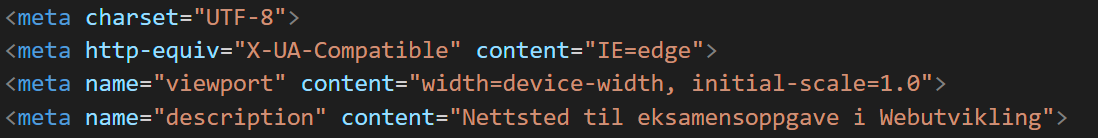
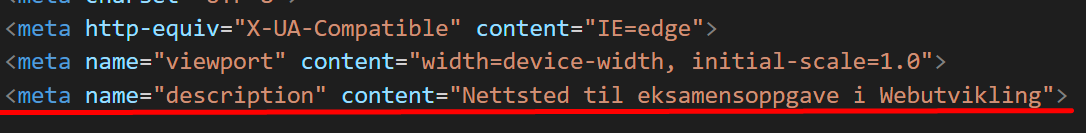
hh

Changed region(s): [[0.0, 0.0602, 1.0, 0.9624], [0.0, 0.0, 0.2735, 0.0301]]

diff --git a/deleksamner/deleksamen4/nettside-de4/analyse.html b/deleksamner/deleksamen4/nettside-de4/analyse.html
@@ -64,6 +64,67 @@
                     Da jeg skulle sette i gang med å vurdere tenkte jeg på prinsippet om “mobile-first”.
                     Jeg så for meg at flere av endringene jeg komme til å ende opp med å gjøre ville forbedre både nettstedet for mobile og deskop brukere. 
                 </p>
+                <h3>Lighthouse</h3>
+                <p>
+                    Jeg kjørte gjennom alle sidene og fant ut at alle sidene hadde like feil som kunne endres. Her er resultatet av endringene jeg gjorde.
+                    <br>
+                    <br>
+                    <img src="img/analyse-sc/test1.png">
+                    <br>
+                    <img src="img/analyse-sc/test.png">
+                </p>
+                <h3>Heuristisk evaluering</h3>
+                <p>
+                    1. Visibility of system status
+                    <br>
+                    Jeg har skrevet hvilken nettside brukeren er på i headeren på alle nettsidene.
+                    <br>
+                    <br>
+                    2. Match between system and the real world
+                    <br>
+                    Jeg har brukt ord, fraser og konsepter som er kjent hos brukeren i artiklene.
+                    <br>
+                    <br>
+                    3. User control and freedom
+                    <br>
+                    Jeg har navigasjon i toppen av alle sidene som gir brukeren muligheten til å raskt komme seg frem og tilbake.
+                    <br>
+                    <br>
+                    4. Consistency and standards
+                    <br>
+                    Jeg har brukt standarder og like ord for at brukeren skal kunne kjenne igjen betydningen.
+                    <br>
+                    <br>
+                    5. Error prevention
+                    <br>
+                    På kontakt oss siden har en “send inn” knapp som må trykkes for å sende inn.
+                    <br>
+                    <br>
+                    6. Recognition rather than recall
+                    <br>
+                    Alle sidene ser relativt like ut og bruker mye av det samme systemene og layoutene.
+                    <br>
+                    <br>
+                    7. Flexibility and efficiency of use
+                    <br>
+                    Jeg har både navigasjon on artikel kort for rask bytting av sider.
+                    <br>
+                    <br>
+                    8. Aesthetic and minimalist design
+                    <br>
+                    Jeg har kun informasjon på sidene som er relevant for sidens tema og et relativt minimalistisk design.
+                    <br>
+                    <br>
+                    9. Help users recognize, diagnose, and recover from errors
+                    <br>
+                    Jeg har ikke funnet noen områder hvor error meldinger kunne vært i bruk.
+                    <br>
+                    <br>
+                    10. Help and documentation
+                    <br>
+                    Det er enkelt å finne innholdet på alle sidene.
+                </p>
+                <h3>Tabell med endringer</h3>
                 <div id="analyse-table">
                     <div class="box1">Background and foreground colors do not have a sufficient contrast ratio</div>
                     <div class="box2">Før</div>
@@ -114,6 +175,7 @@
                     </div>
                     <div class="box24">Etter</div>
                     <div class="box25">
+                        <img src="img/analyse-sc/crawl link2.png">
                     </div>
 
                     <div class="box14-2">
@@ -126,13 +188,47 @@
                         <img src="img/analyse-sc/alt1.png">
                     </div>
                 </div>
+                <h3>Tilgjengelighetserklæring</h3>
+                <h4>A-krav</h4>
+                <h5>1.3.1 Informasjon og relasjoner (Nivå A)</h5>
+                <p>
+                    Ting skal være kodet som det ser ut som.
+                </p>
+                <h5>1.3.2 Meningsfylt rekkefølge (Nivå A)</h5>
+                <p>
+                    Presenter innhold i en meningsfull rekkefølge.
+                </p>
+                <h5>1.4.1 Bruk av farge (Nivå A)</h5>
+                <p>
+                    Ikke bruk presentasjon som bygger utelukkende på farge.
+                </p>
+                <h4>AA-krav</h4>
+                <h5>1.4.3 Kontrast (minimum, Nivå AA)</h5>
+                <p>
+                    Kontrastforholdet mellom teksten og bakgrunnen er minst 4,5:1.
+                </p>
+                <h5>3.2.3 Konsekvent navigering (Nivå AA)</h5>
+                <p>
+                    Navigasjonslinker som gjentas på flere sider skal ha en konsekvent rekkefølge.
+                </p>
+                <h5>3.2.4 Konsekvent identifikasjon (Nivå AA)</h5>
+                <p>
+                    Elementer som har samme funksjonalitet på tvers av flere sider er utformet likt.
+                </p>
+                <h4>AAA-krav</h4>
+                <h5>2.1.3 Keyboard (No Exception) Level AAA</h5>
+                <p>
+                    All functionality of the content is operable through a keyboard interface without requiring specific timings for individual keystrokes.
+                    <br>
+                    <a href="https://www.w3.org/WAI/WCAG21/quickref/?versions=2.0">Link til AAA-krav</a>
+                </p>
+                <p>
+                    <a href="ekstra/WCAGexcel_1.xlsx">Excel tabell med tilgjengelighetserklæringen</a>
+                </p>
                 <details>
                     <summary>Kilder</summary>
-                    <p><a href="#">Lorem ipsum</a></p>
-                    <p><a href="#">Lorem ipsum</a></p>
-                    <p><a href="#">Lorem ipsum</a></p>
-                    <p><a href="#">Lorem ipsum</a></p>
-                    <p><a href="#">Lorem ipsum</a></p>
+                    <p><a href="https://www.nngroup.com/articles/ten-usability-heuristics/">Heuristisk evaluering</a></p>
+                    <p><a href="https://www.uutilsynet.no/tilgjengelighetserklaering/wcag-sjekkliste-utfylling-av-tilgjengelighetserklaering/1333">WCAG-sjekkliste for utfylling av tilgjengelighetserklæring</a></p>
                 </details>
                 <div id="media-buttons">
                     <a href="https://www.facebook.com/sharer/sharer.php?u=https%3A%2F%2Fitstud.hiof.no%2F%7Eerikev%2Fdeleksamner%2Fnettside-de4%2Fanalyse.html&amp;src=sdkpreparse"

diff --git a/deleksamner/deleksamen4/nettside-de4/index.html b/deleksamner/deleksamen4/nettside-de4/index.html
@@ -4,6 +4,7 @@
     <meta charset="UTF-8">
     <meta http-equiv="X-UA-Compatible" content="IE=edge">
     <meta name="viewport" content="width=device-width, initial-scale=1.0">
+    <meta name="description" content="Nettsted til eksamensoppgave i Webutvikling">
 
     <!-- Twitter card -->
     <meta name="twitter:card" content="summary">
@@ -52,52 +53,15 @@
             <section id="main-section">
                 <h2>Lorem ipsum</h2>
                 <p>
-                    Lorem ipsum dolor sit amet, consectetur adipiscing elit, sed do eiusmod tempor incididunt ut labore et dolore magna aliqua.
-                    Aliquet lectus proin nibh nisl condimentum id. Ut eu sem integer vitae. Ac turpis egestas sed tempus urna et pharetra.
-                    Arcu cursus vitae congue mauris. Enim ut tellus elementum sagittis vitae et leo duis ut. Nisl pretium fusce id velit ut tortor pretium viverra.
-                    Tempus egestas sed sed risus pretium quam vulputate dignissim. Nibh mauris cursus mattis molestie a iaculis at erat.
-                    Senectus et netus et malesuada fames ac turpis egestas. Purus semper eget duis at tellus at urna.
-                    Sed risus pretium quam vulputate dignissim suspendisse in est. Ut diam quam nulla porttitor.
-                    Tellus in metus vulputate eu scelerisque felis imperdiet. Magna eget est lorem ipsum dolor sit.
-                    Etiam erat velit scelerisque in dictum non consectetur a.
+                    Dette nettstedet er en eksamensoppgave med artikler og en analyse av nettstedet.
                 </p>
-                <h3>Lorem ipsum</h3>
-                <p>
-                   Pellentesque elit eget gravida cum sociis. Eget gravida cum sociis natoque penatibus et. Aliquet bibendum enim facilisis gravida neque convallis a cras.
-                   Ut morbi tincidunt augue interdum. Mattis enim ut tellus elementum sagittis vitae et leo. Euismod elementum nisi quis eleifend quam adipiscing.
-                   Aliquam sem fringilla ut morbi tincidunt. In est ante in nibh mauris cursus mattis molestie a. Morbi non arcu risus quis varius quam quisque id.
-                   Risus pretium quam vulputate dignissim. Scelerisque mauris pellentesque pulvinar pellentesque. Faucibus purus in massa tempor.
-                   Metus aliquam eleifend mi in nulla. Quam id leo in vitae turpis massa sed. Varius vel pharetra vel turpis nunc eget lorem. Erat imperdiet sed euismod nisi.
-                </p>
-                <p>
-                   Quisque egestas diam in arcu cursus euismod quis viverra. Laoreet sit amet cursus sit amet dictum sit amet.
-                   Venenatis tellus in metus vulputate eu scelerisque. Eleifend donec pretium vulputate sapien nec. Consequat ac felis donec et.
-                   Aliquam etiam erat velit scelerisque. Neque ornare aenean euismod elementum nisi quis.
-                   Tristique risus nec feugiat in fermentum posuere urna nec tincidunt. Sed ullamcorper morbi tincidunt ornare massa eget egestas purus.
-                   Pharetra et ultrices neque ornare aenean. Ornare arcu odio ut sem nulla.
-                </p>
-                <p>
-                   Eu mi bibendum neque egestas congue quisque. Ullamcorper a lacus vestibulum sed arcu non odio. Tristique nulla aliquet enim tortor.
-                   Sed arcu non odio euismod lacinia at quis risus. Et tortor at risus viverra adipiscing. Nibh cras pulvinar mattis nunc sed blandit libero volutpat.
-                   Est pellentesque elit ullamcorper dignissim. Morbi blandit cursus risus at ultrices mi tempus imperdiet.
-                   Suspendisse faucibus interdum posuere lorem ipsum dolor sit amet. Bibendum enim facilisis gravida neque. Quam pellentesque nec nam aliquam sem et.
-                   Diam quam nulla porttitor massa id neque aliquam vestibulum morbi. Ac placerat vestibulum lectus mauris ultrices.
-                   Ultrices in iaculis nunc sed augue lacus viverra vitae congue. Nam at lectus urna duis. Euismod quis viverra nibh cras pulvinar mattis nunc.
-                   Egestas diam in arcu cursus euismod quis viverra nibh cras. Risus sed vulputate odio ut enim. At ultrices mi tempus imperdiet nulla malesuada.
-                </p>
-                <p>
-                   Ipsum a arcu cursus vitae congue mauris. Feugiat nibh sed pulvinar proin. Tincidunt ornare massa eget egestas purus viverra accumsan.
-                   Metus vulputate eu scelerisque felis imperdiet proin. Fermentum dui faucibus in ornare quam viverra orci.
-                   Massa eget egestas purus viverra accumsan in nisl nisi. Neque volutpat ac tincidunt vitae semper.
-                   Eget sit amet tellus cras adipiscing enim eu turpis egestas. Ornare quam viverra orci sagittis eu. Scelerisque eleifend donec pretium vulputate sapien.
-                   Tristique sollicitudin nibh sit amet commodo nulla. Convallis convallis tellus id interdum. Pulvinar etiam non quam lacus suspendisse faucibus.
-                </p>
+
                 <a href="kontakt_oss.html" class="button">Kontakt Oss</a>
                 <div id="media-buttons">
                     <a href="https://www.facebook.com/sharer/sharer.php?u=https%3A%2F%2Fitstud.hiof.no%2F%7Eerikev%2Fdeleksamner%2Fnettside-de4%2Findex.html&amp;src=sdkpreparse"
-                    class="fa fa-facebook fa-brands fa-facebook"></a>
-                    <a href="https://twitter.com/share?ref_src=twsrc%5Etfw" class="fa fa-twitter fa-brands fa-twitter"></a>
-                    <a href="#" class="fa fa-pinterest fa-brands fa-pinterest"></a>
+                    class="fa fa-facebook fa-brands fa-facebook" alt="Pinterest delingsknapp"></a>
+                    <a href="https://twitter.com/share?ref_src=twsrc%5Etfw" class="fa fa-twitter fa-brands fa-twitter" alt="Pinterest delingsknapp"></a>
+                    <a href="#" class="fa fa-pinterest fa-brands fa-pinterest" alt="Pinterest delingsknapp"></a>
                 </div>
             </section>
             <section>

diff --git a/deleksamner/deleksamen4/nettside-de4/kontakt_oss.html b/deleksamner/deleksamen4/nettside-de4/kontakt_oss.html
@@ -4,6 +4,7 @@
     <meta charset="UTF-8">
     <meta http-equiv="X-UA-Compatible" content="IE=edge">
     <meta name="viewport" content="width=device-width, initial-scale=1.0">
+    <meta name="description" content="Nettsted til eksamensoppgave i Webutvikling">
 
     <!-- Twitter card -->
     <meta name="twitter:card" content="summary">
@@ -69,9 +70,9 @@
                     Åpne i Google Maps</a></p>
                 <div id="media-buttons">
                     <a href="https://www.facebook.com/sharer/sharer.php?u=https%3A%2F%2Fitstud.hiof.no%2F%7Eerikev%2Fdeleksamner%2Fnettside-de4%2Fkontakt_oss.html&amp;src=sdkpreparse"
-                    class="fa fa-facebook fa-brands fa-facebook"></a>
-                    <a href="https://twitter.com/share?ref_src=twsrc%5Etfw" class="fa fa-twitter fa-brands fa-twitter"></a>
-                    <a href="#" class="fa fa-pinterest fa-brands fa-pinterest"></a>
+                    class="fa fa-facebook fa-brands fa-facebook" alt="Facebook delingsknapp"></a>
+                    <a href="https://twitter.com/share?ref_src=twsrc%5Etfw" class="fa fa-twitter fa-brands fa-twitter" alt="Twitter delingsknapp"></a>
+                    <a href="#" class="fa fa-pinterest fa-brands fa-pinterest" alt="Pinterest delingsknapp"></a>
                 </div>
             </section>
             <section>

diff --git a/deleksamner/deleksamen4/nettside-de4/uu_vs_seo.html b/deleksamner/deleksamen4/nettside-de4/uu_vs_seo.html
@@ -4,6 +4,7 @@
     <meta charset="UTF-8">
     <meta http-equiv="X-UA-Compatible" content="IE=edge">
     <meta name="viewport" content="width=device-width, initial-scale=1.0">
+    <meta name="description" content="Nettsted til eksamensoppgave i Webutvikling">
 
     <!-- Twitter card -->
     <meta name="twitter:card" content="summary">
@@ -125,9 +126,9 @@
                 </details>
                 <div id="media-buttons">
                     <a href="https://www.facebook.com/sharer/sharer.php?u=https%3A%2F%2Fitstud.hiof.no%2F%7Eerikev%2Fdeleksamner%2Fnettside-de4%2Fuu_vs_seo.html&amp;src=sdkpreparse"
-                    class="fa fa-facebook fa-brands fa-facebook"></a>
-                    <a href="https://twitter.com/share?ref_src=twsrc%5Etfw" class="fa fa-twitter fa-brands fa-twitter"></a>
-                    <a href="#" class="fa fa-pinterest fa-brands fa-pinterest"></a>
+                    class="fa fa-facebook fa-brands fa-facebook" alt="Pinterest delingsknapp"></a>
+                    <a href="https://twitter.com/share?ref_src=twsrc%5Etfw" class="fa fa-twitter fa-brands fa-twitter" alt="Pinterest delingsknapp"></a>
+                    <a href="#" class="fa fa-pinterest fa-brands fa-pinterest" alt="Pinterest delingsknapp"></a>
                 </div>
             </section>
             <section>

diff --git a/deleksamner/deleksamen4/nettside-de4/cms.html b/deleksamner/deleksamen4/nettside-de4/cms.html
@@ -4,6 +4,7 @@
     <meta charset="UTF-8">
     <meta http-equiv="X-UA-Compatible" content="IE=edge">
     <meta name="viewport" content="width=device-width, initial-scale=1.0">
+    <meta name="description" content="Nettsted til eksamensoppgave i Webutvikling">
 
     <!-- Twitter card -->
     <meta name="twitter:card" content="summary">
@@ -182,9 +183,9 @@
                 <br>
                 <div id="media-buttons">
                     <a href="https://www.facebook.com/sharer/sharer.php?u=https%3A%2F%2Fitstud.hiof.no%2F%7Eerikev%2Fdeleksamner%2Fnettside-de4%2Fcms.html&amp;src=sdkpreparse"
-                    class="fa fa-facebook fa-brands fa-facebook"></a>
-                    <a href="https://twitter.com/share?ref_src=twsrc%5Etfw" class="fa fa-twitter fa-brands fa-twitter"></a>
-                    <a href="#" class="fa fa-pinterest fa-brands fa-pinterest"></a>
+                    class="fa fa-facebook fa-brands fa-facebook" alt="Pinterest delingsknapp"></a>
+                    <a href="https://twitter.com/share?ref_src=twsrc%5Etfw" class="fa fa-twitter fa-brands fa-twitter" alt="Pinterest delingsknapp"></a>
+                    <a href="#" class="fa fa-pinterest fa-brands fa-pinterest" alt="Pinterest delingsknapp"></a>
                 </div>
             </section>
             <section>
